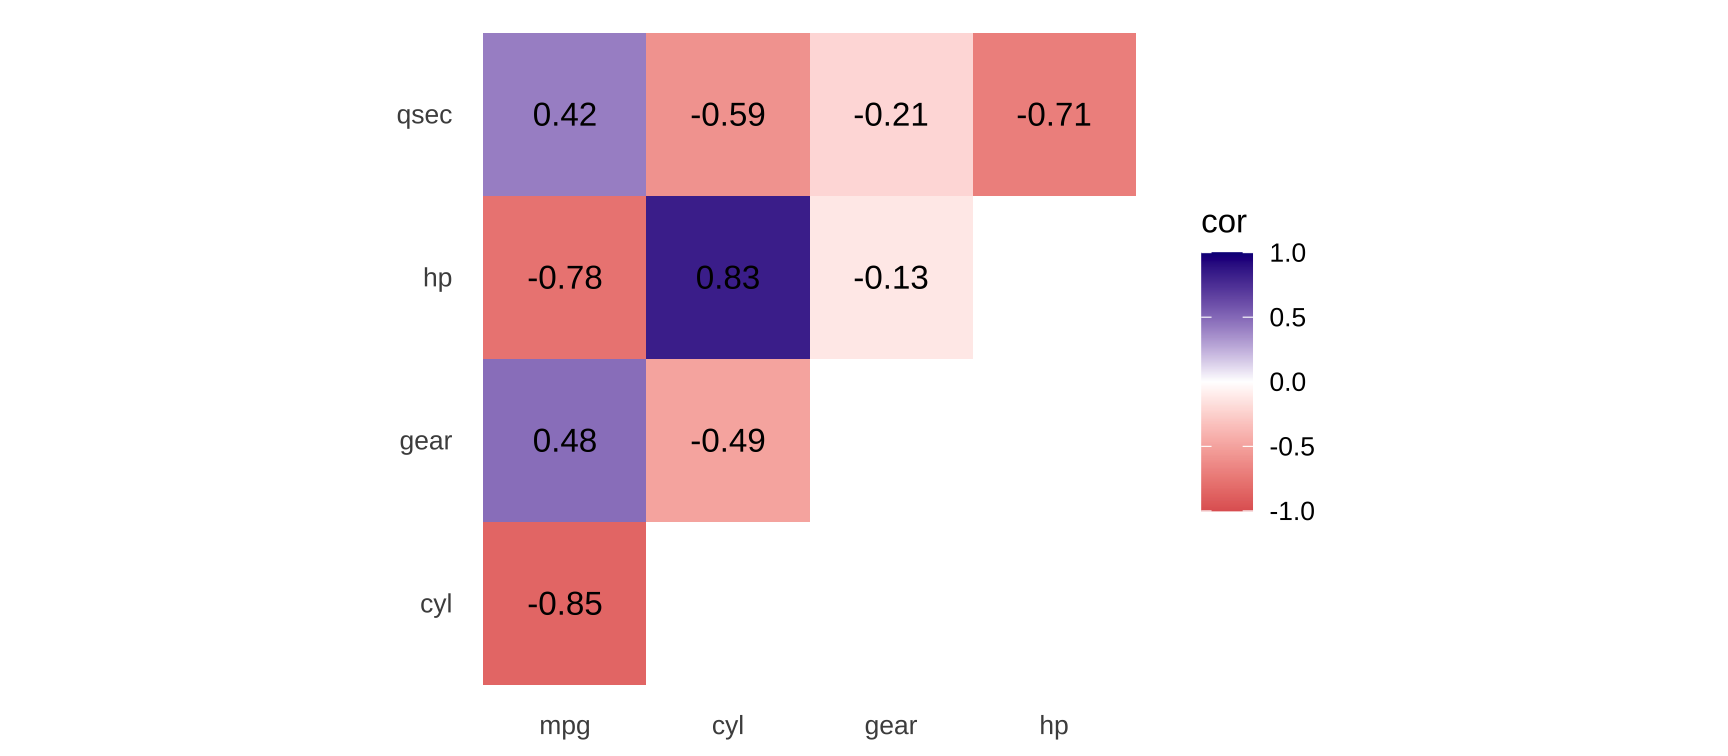
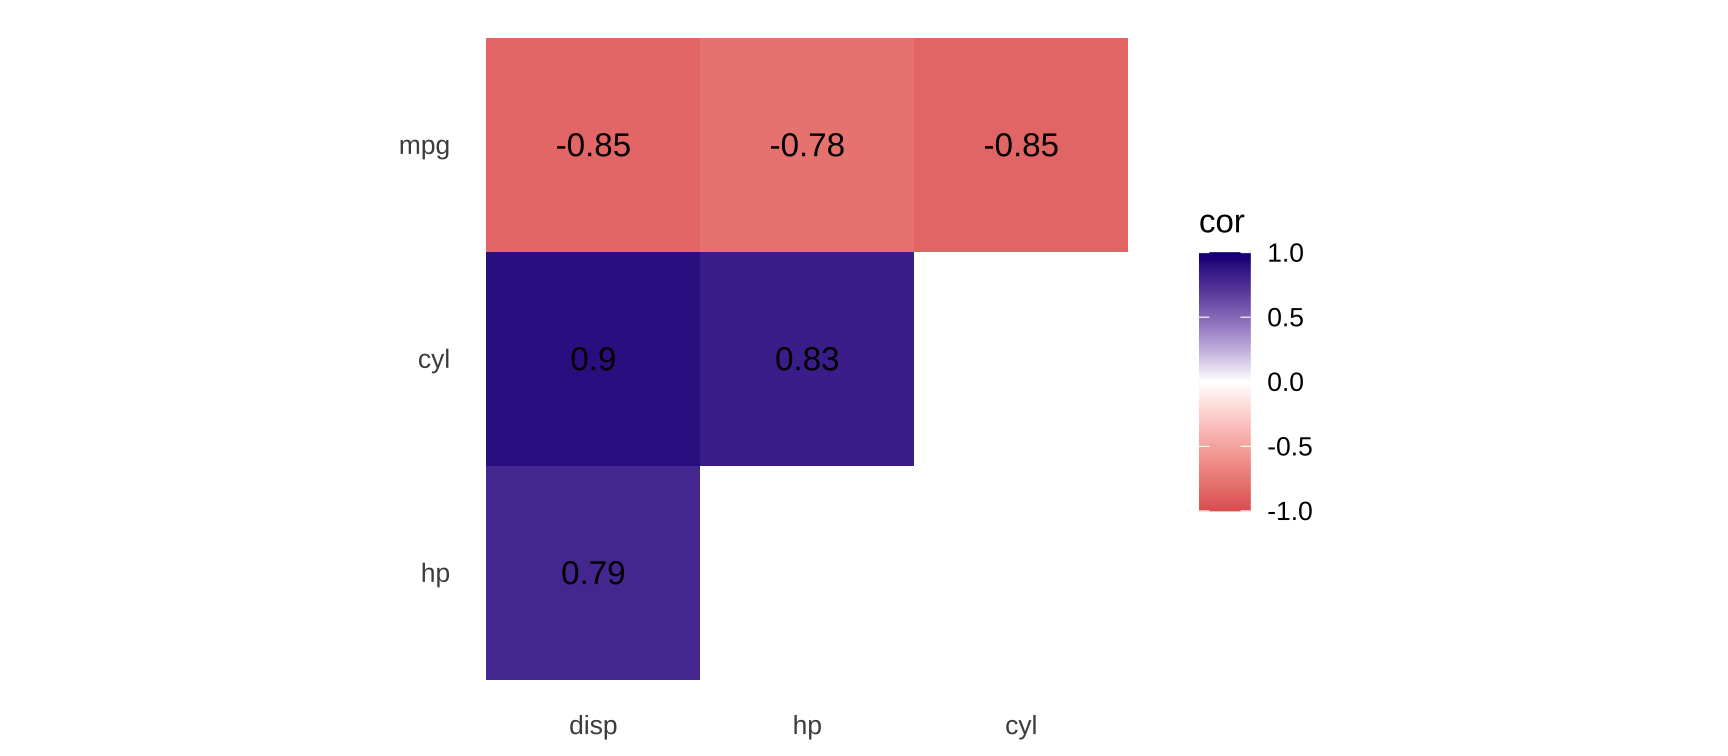
10-slides draft

diff --git a/content/slides/10-slides.html b/content/slides/10-slides.html
@@ -47,7 +47,11 @@ Acknowledgements:
 
 Reminders:
 - Group project due April 14 ([link](https://aem2850.toddgerarden.com/assignment/group-project/))
+  - We set up group-specific workspaces on Posit Cloud for the project to allow simultaneous collaborative editing
+  - Instructions are posted there and on canvas
+  - Make a plan and start early!
 - Local R install instructions posted ([link](https://aem2850.toddgerarden.com/resource/install/))
+  - You are welcome to work locally if that's what your group prefers
 
 Questions before we get started?
 
@@ -339,7 +343,7 @@ Says nothing about *how much* Y changes when X changes
   &lt;/tr&gt;
   &lt;tr&gt;
     &lt;td class="cell-left"&gt;±0.1–0.3&amp;emsp;&lt;/td&gt;
-    &lt;td class="cell-left"&gt;Modest&lt;/td&gt;
+    &lt;td class="cell-left"&gt;Weak&lt;/td&gt;
   &lt;/tr&gt;
   &lt;tr&gt;
     &lt;td class="cell-left"&gt;±0.3–0.5&lt;/td&gt;
@@ -398,7 +402,7 @@ cor(ithaca_weather$TMIN,
 ## [1] 0.919
 ```
 
-What about min temp and snowfall?
+**Strong positive correlation**
 ]
 
 .right-plot[
@@ -407,7 +411,9 @@ What about min temp and snowfall?
 
 ---
 
-# Scatter plots
+# What about min temp and snowfall?
+
+--
 
 .left-code[
 
@@ -426,6 +432,8 @@ cor(ithaca_weather$TMIN,
 ```
 ## [1] -0.239
 ```
+
+**Weak negative correlation**
 ]
 
 .right-plot[
@@ -436,14 +444,16 @@ cor(ithaca_weather$TMIN,
   
 # Scatter plot matrices
 
+--
+
 .left-code[
 
 ```r
-  library(GGally)
-  
+library(GGally)
+
 cars_smaller &lt;- mtcars |&gt; 
-  select(mpg, cyl, gear, hp, qsec)
-  
+  select(disp, hp, mpg)
+
 ggpairs(cars_smaller)
 ```
 Scatter plots can be scaled up to matrices for several variables
@@ -481,7 +491,7 @@ name: regressions
 # Drawing lines with math
 
 $$
-y = mx + b
+y = ax + b
 $$
 
 &lt;table&gt;
@@ -494,7 +504,7 @@ $$
     &lt;td class="cell-left"&gt;&amp;ensp;A number&lt;/td&gt;
   &lt;/tr&gt;
   &lt;tr&gt;
-    &lt;td class="cell-center"&gt;\(m\)&lt;/td&gt;
+    &lt;td class="cell-center"&gt;\(a\)&lt;/td&gt;
     &lt;td class="cell-left"&gt;&amp;ensp;Slope (\(\frac{\text{rise}}{\text{run}}\))&lt;/td&gt;
   &lt;/tr&gt;
   &lt;tr&gt;
@@ -517,8 +527,6 @@ $$
 
 ]
 
---
-
 .pull-right[
 
 $$
@@ -539,27 +547,27 @@ $$
 
 &lt;table&gt;
   &lt;tr&gt;
-    &lt;td class="cell-center"&gt;\(y\)&lt;/td&gt;
+    &lt;!-- &lt;td class="cell-center"&gt;\(y\)&lt;/td&gt; --&gt;
     &lt;td class="cell-center"&gt;\(y\)&lt;/td&gt;
     &lt;td class="cell-left"&gt;&amp;ensp;Outcome variable (DV)&lt;/td&gt;
   &lt;/tr&gt;
   &lt;tr&gt;
-    &lt;td class="cell-center"&gt;\(x\)&lt;/td&gt;
+    &lt;!-- &lt;td class="cell-center"&gt;\(x\)&lt;/td&gt; --&gt;
     &lt;td class="cell-center"&gt;\(x_1\)&lt;/td&gt;
     &lt;td class="cell-left"&gt;&amp;ensp;Explanatory variable (IV)&lt;/td&gt;
   &lt;/tr&gt;
   &lt;tr&gt;
-    &lt;td class="cell-center"&gt;\(m\)&lt;/td&gt;
+    &lt;!-- &lt;td class="cell-center"&gt;\(a\)&lt;/td&gt; --&gt;
     &lt;td class="cell-center"&gt;\(\beta_1\)&lt;/td&gt;
     &lt;td class="cell-left"&gt;&amp;ensp;Slope&lt;/td&gt;
   &lt;/tr&gt;
   &lt;tr&gt;
-    &lt;td class="cell-center"&gt;\(b\)&lt;/td&gt;
+    &lt;!-- &lt;td class="cell-center"&gt;\(b\)&lt;/td&gt; --&gt;
     &lt;td class="cell-center"&gt;\(\beta_0\)&lt;/td&gt;
     &lt;td class="cell-left"&gt;&amp;ensp;y-intercept&lt;/td&gt;
   &lt;/tr&gt;
   &lt;tr&gt;
-    &lt;td class="cell-center"&gt;&amp;emsp;&amp;emsp;&lt;/td&gt;
+    &lt;!-- &lt;td class="cell-center"&gt;&amp;emsp;&amp;emsp;&lt;/td&gt; --&gt;
     &lt;td class="cell-center"&gt;&amp;emsp;\(\varepsilon\)&amp;emsp;&lt;/td&gt;
     &lt;td class="cell-left"&gt;&amp;ensp;Error (residuals)&lt;/td&gt;
   &lt;/tr&gt;
@@ -657,17 +665,17 @@ summary(car_model)
 
 ```
 ## 
-## Call:
-## lm(formula = hwy ~ displ, data = mpg)
+*## Call:
+*## lm(formula = hwy ~ displ, data = mpg)
 ## 
 ## Residuals:
 ##     Min      1Q  Median      3Q     Max 
 ## -7.1039 -2.1646 -0.2242  2.0589 15.0105 
 ## 
-## Coefficients:
-##             Estimate Std. Error t value Pr(&gt;|t|)    
-## (Intercept)  35.6977     0.7204   49.55   &lt;2e-16 ***
-## displ        -3.5306     0.1945  -18.15   &lt;2e-16 ***
+*## Coefficients:
+*##             Estimate Std. Error t value Pr(&gt;|t|)    
+*## (Intercept)  35.6977     0.7204   49.55   &lt;2e-16 ***
+*## displ        -3.5306     0.1945  -18.15   &lt;2e-16 ***
 ## ---
 ## Signif. codes:  0 '***' 0.001 '**' 0.01 '*' 0.05 '.' 0.1 ' ' 1
 ## 
@@ -693,21 +701,9 @@ tidy(car_model, conf.int = TRUE)
 ## 2 displ          -3.53     0.195     -18.2 2.04e- 46    -3.91     -3.15
 ```
 
---
+&lt;!-- -- --&gt;
 
 
-```r
-glance(car_model)
-```
-
-```
-## # A tibble: 1 × 12
-##   r.squared adj.r.squa…¹ sigma stati…²  p.value    df logLik   AIC   BIC devia…³
-##       &lt;dbl&gt;        &lt;dbl&gt; &lt;dbl&gt;   &lt;dbl&gt;    &lt;dbl&gt; &lt;dbl&gt;  &lt;dbl&gt; &lt;dbl&gt; &lt;dbl&gt;   &lt;dbl&gt;
-## 1     0.587        0.585  3.84    329. 2.04e-46     1  -646. 1297. 1308.   3414.
-## # … with 2 more variables: df.residual &lt;int&gt;, nobs &lt;int&gt;, and abbreviated
-## #   variable names ¹adj.r.squared, ²statistic, ³deviance
-```
 
 ---
 
@@ -787,6 +783,7 @@ tidy(car_model) |&gt;
 $$
 \widehat{\text{hwy}} = 35.7 + (-3.53) \times \text{displ}
 $$
+.small[Reminder: `geom_smooth(method = "lm")` allows us to skip the estimation step!]
 ]
 
 .pull-right[
@@ -1110,7 +1107,7 @@ ggplot(predicted_mpg,
                     (1.96 * .se.fit)),
               fill = "#5601A4", 
               alpha = 0.5) +
-  geom_line(size = 1, color = "#5601A4")
+  geom_line(linewidth = 1, color = "#5601A4")
 ```
 ]
 
@@ -1222,7 +1219,7 @@ ggplot(predicted_mpg_fancy,
                     (1.96 * .se.fit),
                   fill = drv),
               alpha = 0.5) +
-  geom_line(aes(color = drv), size = 1)
+  geom_line(aes(color = drv), linewidth = 1)
 ```
 ]
 
@@ -1249,7 +1246,7 @@ ggplot(predicted_mpg_fancy,
                     (1.96 * .se.fit),
                   fill = drv),
               alpha = 0.5) +
-  geom_line(aes(color = drv), size = 1) + 
+  geom_line(aes(color = drv), linewidth = 1) + 
 * guides(fill = "none", color = "none") +
 * facet_wrap(vars(drv))
 ```
